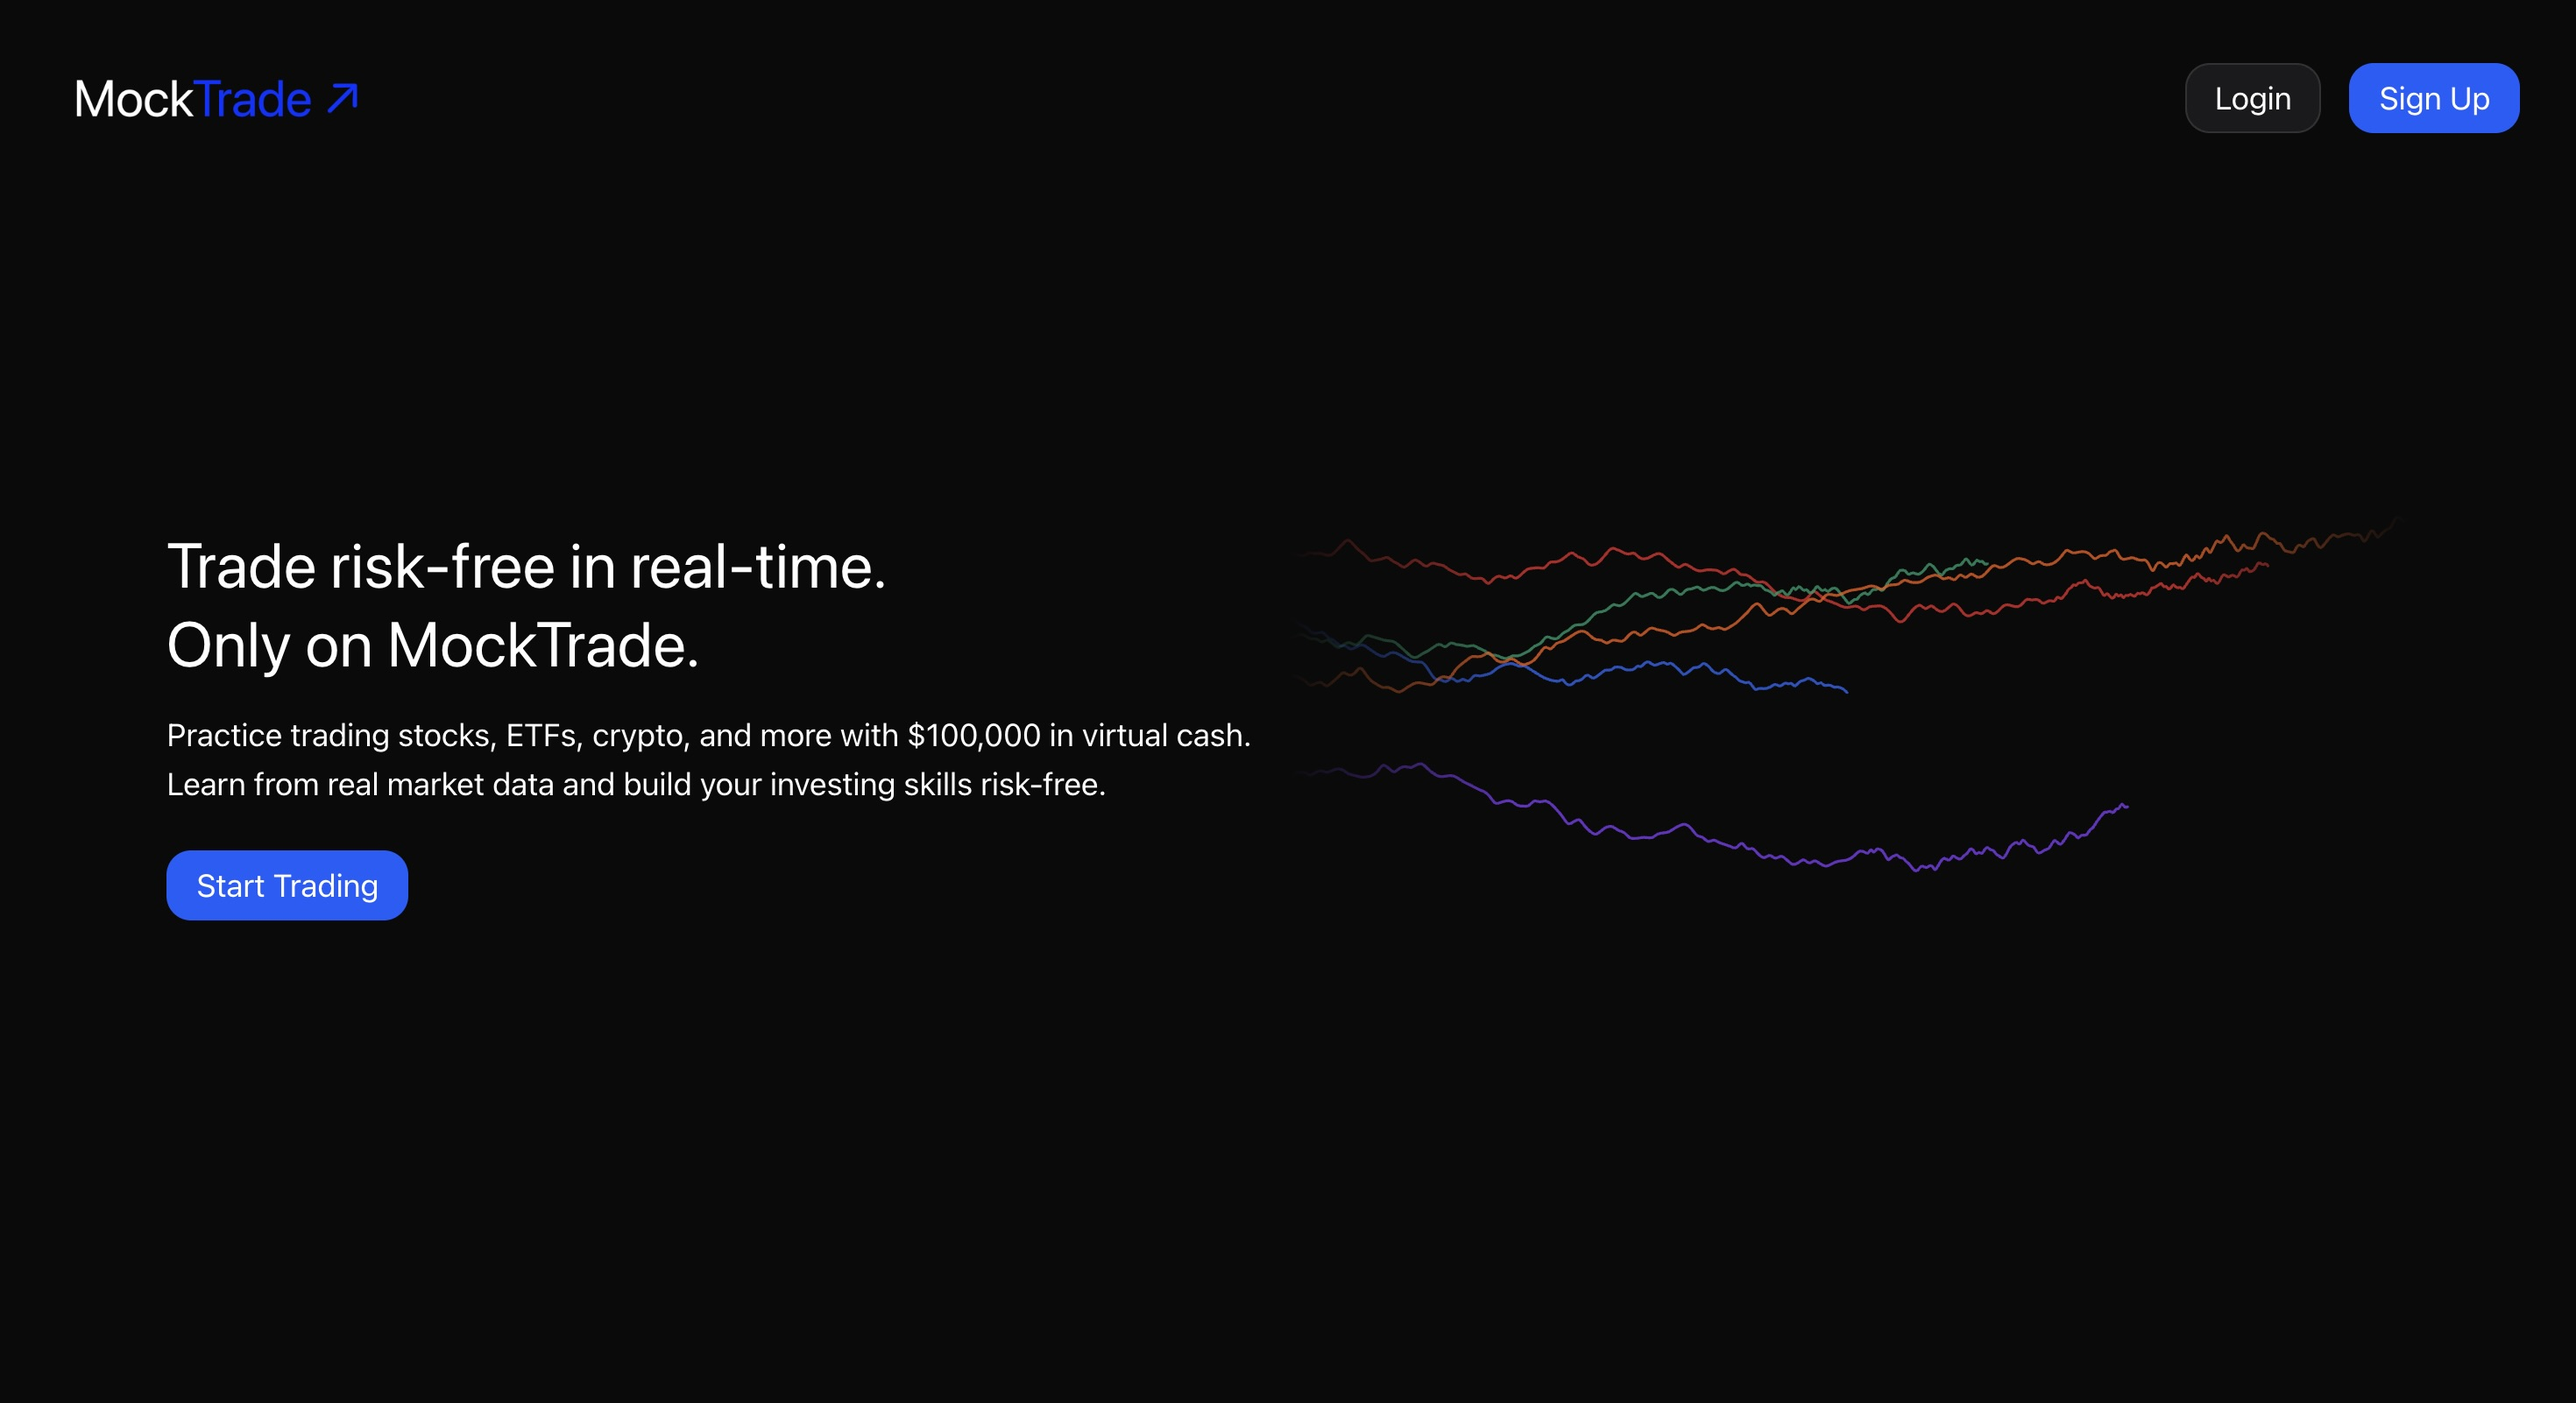
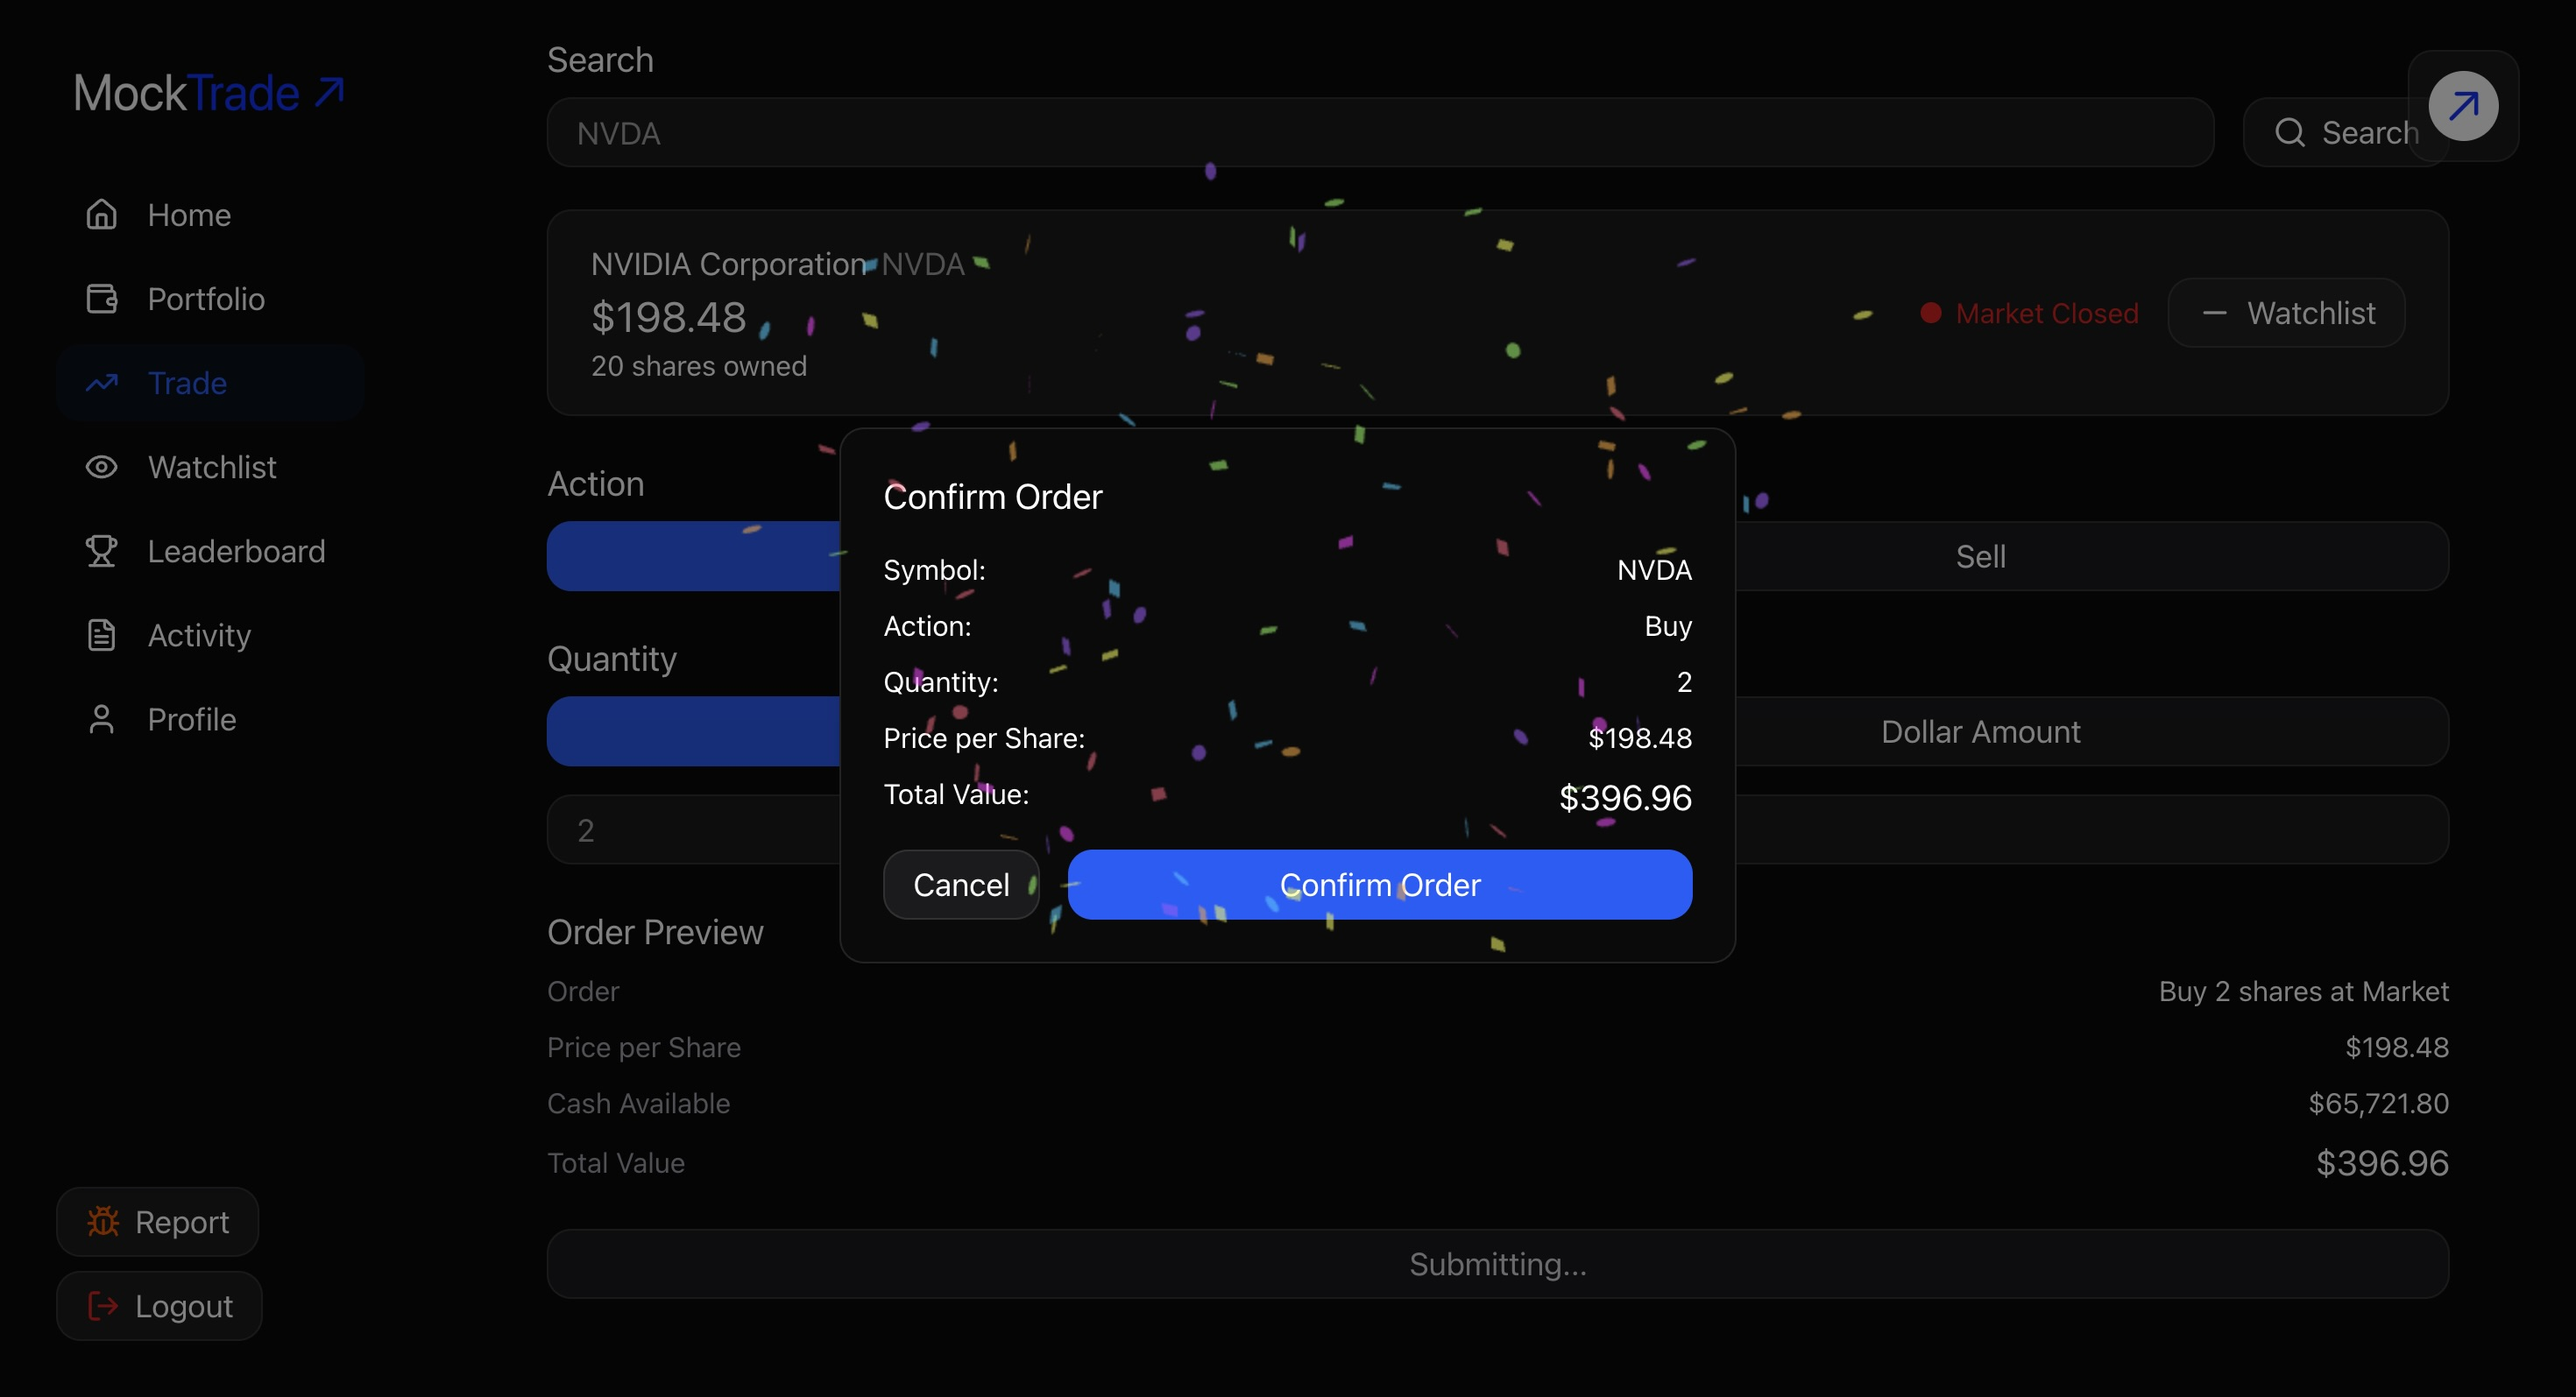
updated mocktrade images

diff --git a/frontend/src/app/page.tsx b/frontend/src/app/page.tsx
@@ -42,7 +42,7 @@ const projects: Project[] = [
     url: "https://www.mocktrade.ca",
     githubUrl: "https://github.com/connormorrrison/mocktrade",
     videoUrl: "",
-    images: ["/images/projects/mocktrade/mocktrade-1.jpeg", "/images/projects/mocktrade/mocktrade-2.jpeg", "/images/projects/mocktrade/mocktrade-3.jpeg"],
+    images: ["/images/projects/mocktrade/mocktrade-1.jpeg", "/images/projects/mocktrade/mocktrade-2.jpeg", "/images/projects/mocktrade/mocktrade-3.jpeg", "/images/projects/mocktrade/mocktrade-4.jpeg", "/images/projects/mocktrade/mocktrade-5.jpeg", "/images/projects/mocktrade/mocktrade-6.jpeg"],
   },
   {
     title: "Benevity Automated Campaign Kits",
